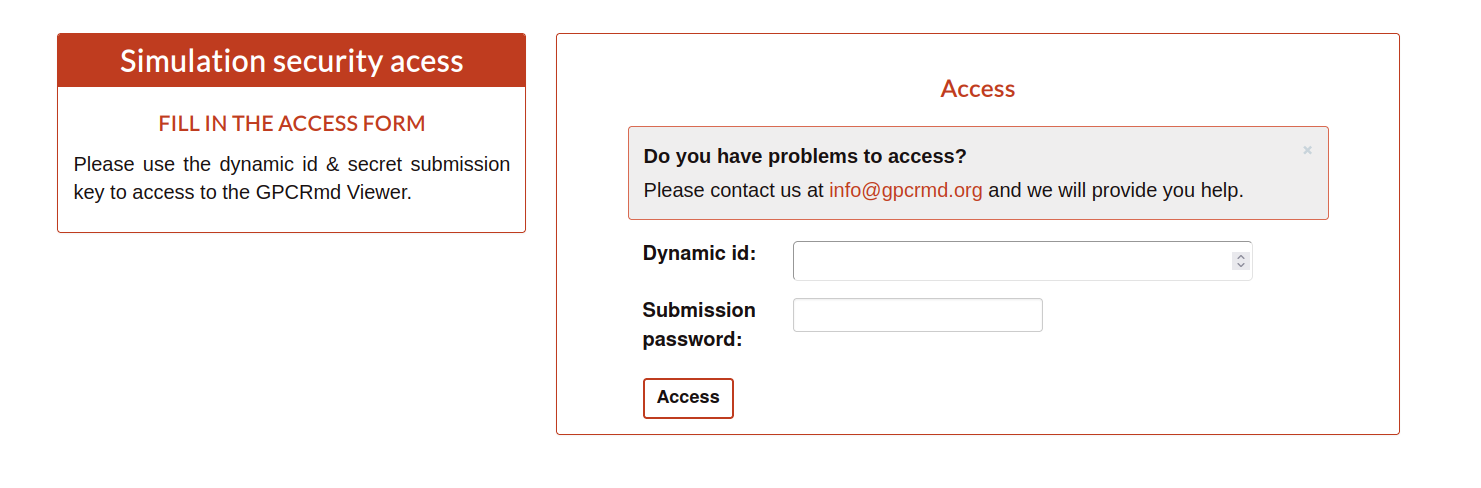
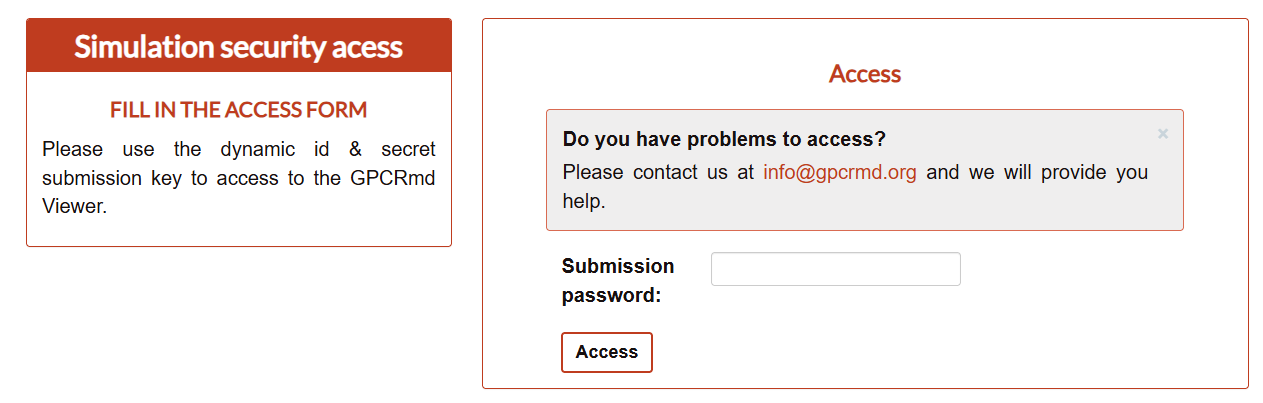
Secret submission key update

diff --git a/source/accounts.rst b/source/accounts.rst
@@ -101,10 +101,9 @@ At the home page, at the top on the Account menu, the user have some options to 
   :width: 600
   :alt: GPCRmd log in
 
-Here, is the request form to access into a non-published submission (e.g. for reviewers). The user must to complete the next parameters:
-
-* **Dynamic id:** The identifier of the dynamic. 
-* **Submission password:** The Secret submission key. 
+Here is the request form to access a non-published submission (e.g. for reviewers). The user only needs to fill in:
+ 
+* **Submission password:** The secret submission key, set by the owner of the submission.
 
 .. image:: _static/gpcrmd_accsecretreq.png
   :width: 600
